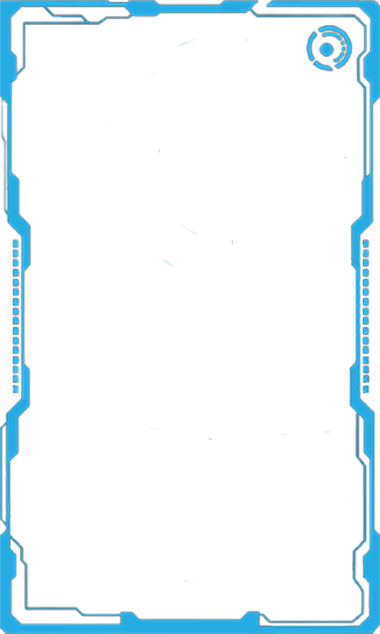
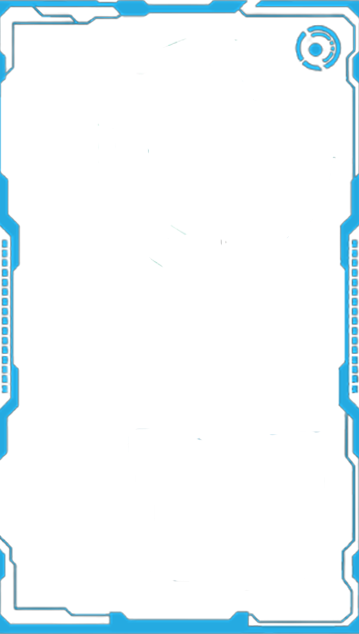
vertical frame changed with photoshop
also removed the margin top on the main container

diff --git a/assets/css/style.css b/assets/css/style.css
@@ -18,12 +18,6 @@ img {
 .main {
     position: relative;
     max-width: 900px;
-   
-}
-
-.ui-container {
-    margin-top: 1.3rem;
-    
 }
 
 .ui-interface {
@@ -32,11 +26,11 @@ img {
     align-items: center;
     position: absolute;
     top: 170px;
-    left: 155px;
+    left: 130px;
 }
 
 .display {
-    width: 111px;
+    width: 120px;
     height: 60px;
     border: 2px solid #888;
     z-index: 2;
@@ -46,8 +40,8 @@ img {
 
 .outer-circle {
     position: absolute;
-    width: 340px;
-    height: 340px;
+    width: 330px;
+    height: 330px;
     border-radius: 50%;
     background: linear-gradient(to bottom, rgba(8, 136, 227, 0.8),
     rgba(1, 111, 188, .1) 94%);
@@ -57,7 +51,7 @@ img {
 .cross2 {
     position: absolute;
     background-color: rgb(156, 130, 145);
-    width: 340px;
+    width: 330px;
     height: 12px;
 }
 .cross1 {
@@ -108,18 +102,17 @@ img {
 
 .inner-transparent-circle {
     position: absolute;
-    width: 130px;
-    height: 130px;
+    width: 140px;
+    height: 140px;
     border-radius: 50%;
     border: 3px solid #888;
     z-index: 1;
-    
 }
 
 .inner-display-border-circle {
     position: absolute;
-    width: 130px;
-    height: 130px;
+    width: 141px;
+    height: 141px;
     border-radius: 50%;
     border: 5px solid #23FCFE;
     border-right: 5px solid transparent;
